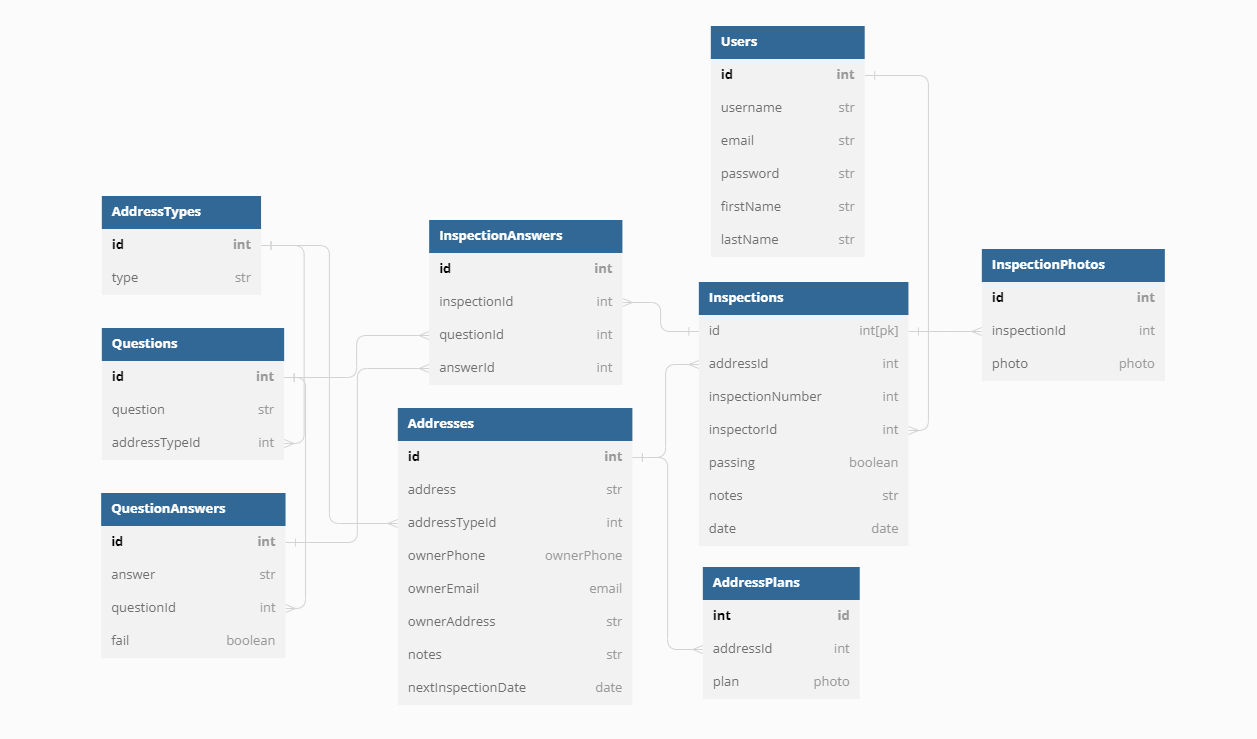
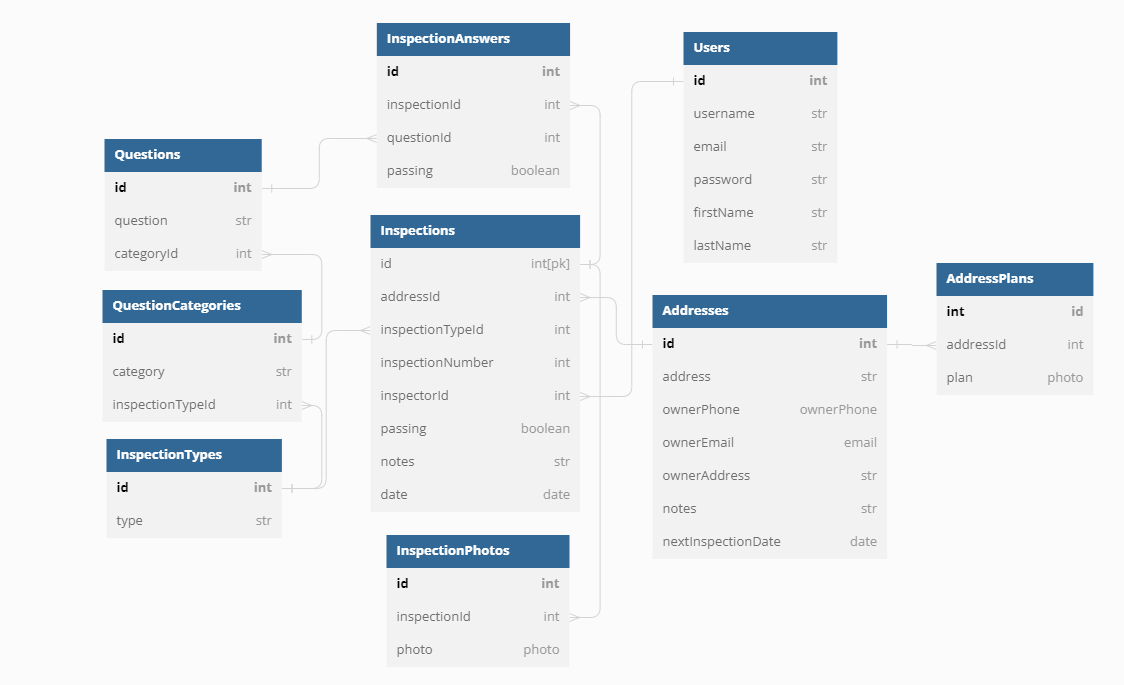
create seeders for inspection types and update models

diff --git a/app/seeds/inspectionTypes.py b/app/seeds/inspectionTypes.py
@@ -1,0 +1,216 @@
+from app.models import db, environment, SCHEMA, InspectionType, Question, QuestionCategory
+
+def seed_inspection_types():
+    # commerial questions
+    egress_question_1 = Question(question='Exit doors unlocked.')
+    egress_question_2 = Question(question='Exit access in unobstructed/clear.')
+    egress_question_3 = Question(question='Exit doors are operable.')
+    egress_question_4 = Question(question='Enclosed exit stairways are clear and free of storage.')
+    egress_question_5 = Question(question='Exit lights are operable.')
+    egress_question_6 = Question(question='No added surface bolts/latches/locks on exit doors.')
+    egress_question_7 = Question(question='Exit doors readily distinguishable as such, with no mirrors or other coverings over doors.')
+
+    systems_question_1 = Question(question='Fire alarm, fire sprinkler and suppression systems are inspected and tested annually')
+    systems_question_2 = Question(question='Sprinkler connection (FDC) is unobstructed and accessible.')
+    systems_question_3 = Question(question='FDC caps in place and FDC couplings freely spin')
+    systems_question_4 = Question(question='Sprinkler heads are unobstructed with no storage with- in 18 inches (36 inches for ESFR and Large Drop fire sprinklers).')
+    systems_question_5 = Question(question='Sprinkler heads are free of paint, corrosion, or other debris.')
+    systems_question_6 = Question(question='Sprinkler valve rooms are accessible and free of storage, and their location identified.')
+    systems_question_7 = Question(question='Fire alarm devices (pull stations, control panels, etc.) are accessible.')
+    systems_question_8 = Question(question='Fire Alarm Control Panel (FACP) accessible and location identified.')
+    systems_question_9 = Question(question='Fire alarm system horns and strobes are not obstructed.')
+    systems_question_10 = Question(question='Kitchen hood suppression system inspected at 6 month intervals.')
+    systems_question_11 = Question(question='Kitchen hood vent system inspected and cleaned at required intervals.')
+    systems_question_12 = Question(question='Kitchen hood suppression system remote pull is accessible.')
+    systems_question_13 = Question(question='Fire extinguishers inspected annually.')
+    systems_question_14 = Question(question='Fire extinguishers are accessible and mounted.')
+    systems_question_15 = Question(question='Travel distance from all portions of the building less than 75’ to a fire extinguisher')
+
+    assemblies_question_1 = Question(question='Fire doors are operable by self-closing and latching')
+    assemblies_question_2 = Question(question='Fire doors are not wedged or propped open.')
+    assemblies_question_3 = Question(question='Roll down fire doors drop tested by outside testing agency each year')
+    assemblies_question_4 = Question(question='Fire rated walls, floor, and ceiling construction not breached.')
+
+    hazmat_question_1 = Question(question='No open containers of flammable or combustible liquids')
+    hazmat_question_2 = Question(question='Material Safety Data Sheets (MSDS) are on site (hard copy or electronic version must be available).')
+    hazmat_question_3 = Question(question='Compressed gas cylinders secured upright.')
+
+    electrical_question_1 = Question(question='Emergency lights tested each year.')
+    electrical_question_2 = Question(question='Emergency generator is fully tested annually.')
+    electrical_question_3 = Question(question='Extension cords not used in place of permanent wiring.')
+    electrical_question_4 = Question(question='Outlet/switch/electrical covers in place')
+    electrical_question_5 = Question(question='Covers for junction boxes, panels, etc. are in place.')
+    electrical_question_6 = Question(question='Electrical rooms are identified as such.')
+
+    housekeeping_question_1 = Question(question='No accumulation of combustible waste.')
+    housekeeping_question_2 = Question(question='Electrical, mechanical, boiler rooms are accessible and free of storage.')
+    housekeeping_question_3 = Question(question='3-foot clearance maintained around electrical panels.')
+    housekeeping_question_4 = Question(question='Electrical equipment and motors free of debris and build-up (i.e. sawdust, lint, etc.).')
+
+    misc_question_1 = Question(question='Street address numbers posted and clearly visible')
+    misc_question_2 = Question(question='No combustible decorative material in exit corridors or assembly occupancies.')
+    misc_question_3 = Question(question='Privately-owned fire hydrants accessible.')
+    misc_question_4 = Question(question='Privately-owned fire hydrants painted per Fire Department regulations')
+    misc_question_5 = Question(question='LPG gas tanks subjected to vehicle traffic protected from damage.')
+    misc_question_6 = Question(question='Access road unobstructed.')
+    misc_question_7 = Question(question='If required, KNOX Box installed, and keys updated.')
+
+    # commerial categories
+    egress_category = QuestionCategory(category='Exits/Means of Egress', questions=[egress_question_1, egress_question_2, egress_question_3, egress_question_4, egress_question_5, egress_question_6, egress_question_7])
+
+    system_category = QuestionCategory(category='Fire Protection Systems', questions=[systems_question_1, systems_question_2, systems_question_3, systems_question_4, systems_question_5, systems_question_6, systems_question_7, systems_question_8, systems_question_9, systems_question_10, systems_question_11, systems_question_12, systems_question_13, systems_question_14, systems_question_15])
+
+    assemblies_category = QuestionCategory(category='Fire Protection Assemblies', questions=[assemblies_question_1, assemblies_question_2, assemblies_question_3, assemblies_question_4])
+
+    hazmat_category = QuestionCategory(category='Hazardous Materials', questions=[hazmat_question_1, hazmat_question_2, hazmat_question_3])
+
+    electrical_category = QuestionCategory(category='Electrical', questions=[electrical_question_1, electrical_question_2, electrical_question_3, electrical_question_4, electrical_question_5, electrical_question_6])
+
+    housekeeping_category = QuestionCategory(category='Housekeeping', questions=[housekeeping_question_1, housekeeping_question_2, housekeeping_question_3, housekeeping_question_4])
+
+    misc_category = QuestionCategory(category='Miscellaneous', questions=[misc_question_1, misc_question_2, misc_question_3, misc_question_4, misc_question_5, misc_question_6, misc_question_7])
+
+    # commerial inspection type
+    commercial = InspectionType(type='commercial', question_categories=[egress_category, system_category, assemblies_category, hazmat_category, electrical_category, housekeeping_category, misc_category])
+
+    # residential inspection questions
+    general_question_1 = Question(question='Home has smoke alarms on every level.')
+    general_question_2 = Question(question='Home has a smoke alarm in every bedroom.')
+    general_question_3 = Question(question='Smoke alarms are located outside each separate sleeping area.')
+    general_question_4 = Question(question='Smoke alarms are located at least 10 feet from a stationary or fixed cooking appliance.')
+    general_question_5 = Question(question='For larger homes (where the interior floor area on a given level is greater than 1,000 square feet), there is an average of at least 1 smoke alarm for every 500 square feet. [See NFPA 72-2007 11.5.1.3, 29.5.1.3 (2010)]')
+    general_question_6 = Question(question='Home has ionization, photoelectric, or combination smoke alarms.')
+    general_question_7 = Question(question='All smoke alarms are working.')
+    general_question_8 = Question(question='Family has a home fire escape plan.')
+    general_question_9 = Question(question='If the home has occupant(s) that require assistance to escape. Occupants discuss escape planning and occupant requirements in case of a fire or emergency escape.')
+    general_question_10 = Question(question='House number is visible from the street.')
+    general_question_11 = Question(question='Windows used for escape open easily — not blocked by furniture, security bars or nailed/painted shut.')
+    general_question_12 = Question(question='Security bars, if present, have a quick release-device.')
+    general_question_13 = Question(question='Home has a carbon monoxide alarm outside each separate sleeping area. ')
+    general_question_14 = Question(question='Home has a carbon monoxide alarm on every level.')
+    general_question_15 = Question(question='Carbon monoxide alarms are working.')
+
+    throughout_question_1 = Question(question='No evidence of smoking in the home.')
+    throughout_question_2 = Question(question='Large ashtrays are provided outside for smokers')
+    throughout_question_3 = Question(question='Matches and lighters are stored in a secure cabinet.')
+    throughout_question_4 = Question(question='Lit candles are not left unattended.')
+    throughout_question_5 = Question(question='Flammable liquids, if stored in the home, are limited in quantify. ')
+    throughout_question_6 = Question(question='The home is not cluttered with clothes, magazines, newspapers and other items that can burn.')
+
+    kitchen_question_1 = Question(question='Things that can burn are removed from the stovetop.')
+    kitchen_question_2 = Question(question='Small appliances are unplugged when not in use.')
+    kitchen_question_3 = Question(question='Adult stays in the kitchen when stovetop is in use.')
+
+    living_question_1 = Question(question='Fireplace has proper screen and hearth.')
+    living_question_2 = Question(question='Things that can burn are at least 3 feet from space heaters and fireplaces.')
+
+    bedroom_question_1 = Question(question='All bedrooms have two ways out — window and a door.')
+
+    basement_question_1 = Question(question='Workshop area is clean of things that can burn')
+    basement_question_2 = Question(question='Hot water heater is set at no higher than 120° Fahrenheit.')
+    basement_question_3 = Question(question='Things that can burn are at least 3 feet from the furnace.')
+    basement_question_4 = Question(question='Furnace is inspected and cleaned annually.')
+    basement_question_5 = Question(question='Chimney is inspected annually and cleaned as needed.')
+    basement_question_6 = Question(question='Clothes dryer lint filter and vent pipe are clean')
+
+    garage_question_1 = Question(question='There is a solid door between garage and residence.')
+    garage_question_2 = Question(question='Gas powered equipment is stored in an outside shed or garage, separate from the home.')
+    garage_question_3 = Question(question='Gasoline is stored in an approved safety container in an outside shed or garage, separate from the home.')
+
+    outside_question_1 = Question(question='Outside electrical receptacles are GFCI and they are in good working condition.')
+    outside_question_2 = Question(question='There is no rubbish, trash, brush or tree trimmings accumulation on the property. ')
+    outside_question_3 = Question(question='Barbecue grill is only used outdoors.')
+    outside_question_4 = Question(question='Swimming pool or hot tub is enclosed by a four-sided fence and locked gate. Filter, heater or hot tub is properly grounded.')
+
+    residential_electrical_question_1 = Question(question='AFCIs (arc-fault circuit interrupters) are installed throughout the home and they are working properly (new home construction only).')
+    residential_electrical_question_2 = Question(question='Kitchen and bathrooms have GFCI outlets on countertop surfaces within 6 feet of running water outlets and they are working properly.')
+    residential_electrical_question_3 = Question(question='All receptacle and switch faceplates are installed and in good condition.')
+    residential_electrical_question_4 = Question(question='Receptacles have been tested and are in good working condition — no evidence of arcing or overheating.')
+    residential_electrical_question_5 = Question(question='Switches are in good condition — no evidence of arcing or overheating.')
+    residential_electrical_question_6 = Question(question='Lighting fixture canopies are fastened in place and fixture is in good condition')
+    residential_electrical_question_7 = Question(question='Bulbs in light fixtures are the correct wattage for the lighting fixture.')
+    residential_electrical_question_8 = Question(question='Flexible cords and cables are not used as fixed wiring, run through holes in walls, ceiling or floor, run through doorways or windows or under carpets or attached to building surfaces.')
+    residential_electrical_question_9 = Question(question='If there are young children in the home, the home has tamper-resistant outlets.')
+    residential_electrical_question_10 = Question(question='Panel board and distribution equipment is accessible for inspection and in good condition — no evidence of overheating, corrosion or other damage.')
+    residential_electrical_question_11 = Question(question='Service entrance raceways or cables are fastened in place, grounded, readily accessible and in good condition.')
+
+    stair_question_1 = Question(question='Stair is provided with a handrail(s).')
+    stair_question_2 = Question(question='Stair can be illuminated for night time use.')
+    stair_question_3 = Question(question='Stair tread depth and riser height are uniform.')
+    stair_question_4 = Question(question='Stair landing nosing projections are consistent with other nosings on the stair flight. (You can determine this by doing a “crouch and sight” test. Crouch down at the top landing of the stair. All the nosings from the landing to the bottom step should line up.)')
+
+    # residential question categories
+    general_category = QuestionCategory(category='General', questions=[general_question_1, general_question_2, general_question_3, general_question_4, general_question_5, general_question_6, general_question_7, general_question_8, general_question_9, general_question_10, general_question_11, general_question_12, general_question_13, general_question_14, general_question_15])
+
+    throughout_category = QuestionCategory(category='Throughout the Home', questions=[throughout_question_1, throughout_question_2, throughout_question_3, throughout_question_4, throughout_question_5, throughout_question_6])
+
+    kitchen_category = QuestionCategory(category='Kitchen', questions=[kitchen_question_1, kitchen_question_2, kitchen_question_3])
+
+    living_category = QuestionCategory(category='Living/Family Room', questions=[living_question_1, living_question_2])
+
+    bedroom_category = QuestionCategory(category='Bedrooms', questions=[bedroom_question_1])
+
+    basement_category = QuestionCategory(category='Basement', questions=[basement_question_1, basement_question_2, basement_question_3, basement_question_4, basement_question_5, basement_question_6])
+
+    garage_category = QuestionCategory(category='Garage', questions=[garage_question_1, garage_question_2, garage_question_3])
+
+    outside_category = QuestionCategory(category='Outside the Home', questions=[outside_question_1, outside_question_2, outside_question_3, outside_question_4])
+
+    residential_electrical_category = QuestionCategory(category='Electrical', questions=[residential_electrical_question_1, residential_electrical_question_2, residential_electrical_question_3, residential_electrical_question_4, residential_electrical_question_5, residential_electrical_question_6, residential_electrical_question_7, residential_electrical_question_8, residential_electrical_question_9, residential_electrical_question_10, residential_electrical_question_11])
+
+    stair_category = QuestionCategory(category='Stair Safety', questions=[stair_question_1, stair_question_2, stair_question_3, stair_question_4])
+
+    # residential inspection type
+    residential = InspectionType(type='residential', question_categories=[general_category, throughout_category, kitchen_category, living_category, bedroom_category, basement_category, garage_category, outside_category, residential_electrical_category, stair_category])
+
+    # brush inspection questions
+    defensible_question_1 = Question(question='No branches within 10 feet of any stovepipe or chimney outlet.')
+    defensible_question_2 = Question(question='No leaves, needles or other vegetation on roofs, gutters, decks, porches and stairways etc.')
+    defensible_question_3 = Question(question='No dead or dying trees, branches, shrubs or other plants adjacent to or overhanging buildings.')
+    defensible_question_4 = Question(question='Lower branches of trees trimmed to a height of 6 to 15 feet (or 1/3 tree height for trees under 18 feet).')
+    defensible_question_5 = Question(question='No dead or dying grass, leaves, needles or other vegetation.')
+    defensible_question_6 = Question(question='No live flammable ground cover and shrubs.')
+
+    reduced_fuel_question_1 = Question(question='Dead or dying grass trimmed to a maximum of 4 inches in height. (Trimmings may remain on the ground)')
+    reduced_fuel_question_2 = Question(question='Live flammable ground cover trimmed to less than 18 inches in height.')
+    reduced_fuel_question_3 = Question(question='Lower branches of trees trimmed to a height of 6 to 15 feet from the top of the vegetation below. (1/3 of the tree height for trees under 30 feet)')
+    reduced_fuel_question_4 = Question(question='All ground fuels trimmed to less than four inches in height. Single trees or other vegetation may be kept if they are well spaced, well pruned, well maintained, free of all dead material, and will not spread fire to other vegetation or structures.')
+    reduced_fuel_question_5 = Question(question='All grass is less than four inches in height. If fuels are isolated from other fuels or where necessary to stabilize soil, grasses may reach a height of 18 inches.')
+    reduced_fuel_question_6 = Question(question='Proper clearance between shrubs/trees according to the slope of the land and type of vegetation. 0-20 percent slope = 2 times the height of the plant or 10 feet for trees. 20-40 percent slope = 4 times the height of the plant or 20 feet for trees. More than 40 percent slope = 6 times the height of the plant or 30 feet for trees.')
+
+    defensible_reduced_question_1 = Question(question='Logs or stumps embedded in the soil are removed or isolated from structures and other vegetation.')
+    defensible_reduced_question_2 = Question(question='No dead or dying brush and trees.')
+    defensible_reduced_question_3 = Question(question='No dead or dying tree branches within 15 feet of the ground.')
+
+    other_reqs_question_1 = Question(question='No flammable vegetation, trash, and other combustible materials 10 feet around and above propane tanks.')
+    other_reqs_question_2 = Question(question='Address numbers properly displayed in contrasting colors (4” Min. Size) and readable from the street or access road.')
+    other_reqs_question_3 = Question(question='Chimney or stovepipe openings properly equipped with a metal screen having openings between 3/8 inch and 1/2 inch.')
+    other_reqs_question_4 = Question(question='Clearance of 10 feet around and 15 feet above fuels (e.g. Woodpiles, lumber, scrap etc.). Woodpiles moved as far as possible from structures.')
+    other_reqs_question_5 = Question(question='Flammable materials not stored under decks and similar overhangs of structures.')
+    other_reqs_question_6 = Question(question='Vegetation cleared 10 feet from sides and 15 feet above all driveways and turnaround areas.')
+
+    # brush inspection categories
+    defensible_space_category = QuestionCategory(category='Defensible Space Zone (within 30 feet of all structures or to property line)', questions=[defensible_question_1, defensible_question_2, defensible_question_3, defensible_question_4, defensible_question_5, defensible_question_6])
+
+    reduced_fuel_category = QuestionCategory(category='Reduced Fuel Zone (within 30 - 100 feet of all structures or to property line)', questions=[reduced_fuel_question_1, reduced_fuel_question_2, reduced_fuel_question_3, reduced_fuel_question_4, reduced_fuel_question_5, reduced_fuel_question_6])
+
+    defensible_reduced_category = QuestionCategory(category='Defensible and Reduced Fuel Zone (within 100 feet of all structures or to property line)', questions=[defensible_reduced_question_1, defensible_reduced_question_2, defensible_reduced_question_3])
+
+    other_requirements_category = QuestionCategory(category='Other Requirements', questions=[other_reqs_question_1, other_reqs_question_2, other_reqs_question_3, other_reqs_question_4, other_reqs_question_5, other_reqs_question_6])
+
+
+    # brush inspection type
+    brush = InspectionType(type='brush', question_categories=[defensible_space_category, reduced_fuel_category, defensible_reduced_category, other_requirements_category])
+
+    db.session.add(commercial)
+    db.session.add(residential)
+    db.session.add(brush)
+    db.session.commit()
+
+def undo_inspection_types():
+    if environment == "production":
+        db.session.execute(f"TRUNCATE table {SCHEMA}.inspection_types RESTART IDENTITY CASCADE;")
+    else:
+        db.session.execute("DELETE FROM inspection_types")
+
+    db.session.commit()

diff --git a/app/models/user.py b/app/models/user.py
@@ -36,60 +36,4 @@ class User(db.Model, UserMixin):
             'lastName': self.lastName
         }
 
-class AddressType(db.Model):
-    __tablename__ = 'address_types'
 
-    if environment == "production":
-            __table_args__ = {'schema': SCHEMA}
-
-    id = db.Column(db.Integer, primary_key=True)
-    type = db.Column(db.String(40), nullable=False, unique=True)
-
-    questions = db.relationship('Questions', back_populates='address_type', cascade='all, delete-orphan')
-
-    def to_dict(self):
-        return {
-            'id': self.id,
-            'type': self.type,
-            'questions': [question.to_dict() for question in self.questions]
-        }
-
-class Question(db.Model):
-    __tablename__ = 'questions'
-
-    if environment == "production":
-            __table_args__ = {'schema': SCHEMA}
-
-    id = db.Column(db.Integer, primary_key=True)
-    question = db.Column(db.Text, nullable=False, unique=True)
-    address_type_id = db.Column(db.Integer, db.ForeignKey(add_prefix_for_prod('address_types.id')), nullable=False)
-
-    address_type = db.relationship('AddressType', back_populates='questions')
-    answers = db.relationship('QuestionAnswer', back_populates='question', cascade='all, delete-orphan')
-
-    def to_dict(self):
-        return {
-            'id': self.id,
-            'question': self.question,
-            'answers': [answer.to_dict() for answer in self.answers]
-        }
-
-class QuestionAnswer(db.Model):
-    __tablename__ = 'question_answers'
-
-    if environment == "production":
-            __table_args__ = {'schema': SCHEMA}
-
-    id = db.Column(db.Integer, primary_key=True)
-    answer = db.Column(db.String(255), nullable=False)
-    fail = db.Column(db.Boolean, default=False)
-    question_id = db.Column(db.Integer, db.ForeignKey(add_prefix_for_prod('questions.id')), nullable=False)
-
-    question = db.relationship('Question', back_populates='answers')
-
-    def to_dict(self):
-        return {
-            'id': self.id,
-            'answer': self.answer,
-            'fail': self.fail,
-        }

diff --git a/app/models/inspectionTypes.py b/app/models/inspectionTypes.py
@@ -1,0 +1,57 @@
+from .db import db, environment, SCHEMA, add_prefix_for_prod
+
+class InspectionType(db.Model):
+    __tablename__ = 'inspection_types'
+
+    if environment == "production":
+            __table_args__ = {'schema': SCHEMA}
+
+    id = db.Column(db.Integer, primary_key=True)
+    type = db.Column(db.String(40), nullable=False, unique=True)
+
+    question_categories = db.relationship('QuestionCategory', back_populates='inspection_type', cascade='all, delete-orphan')
+
+    def to_dict(self):
+        return {
+            'id': self.id,
+            'type': self.type,
+            'question_categories': [category.to_dict() for category in self.question_categories]
+        }
+
+class QuestionCategory(db.Model):
+    __tablename__ = 'question_categories'
+
+    if environment == "production":
+            __table_args__ = {'schema': SCHEMA}
+
+    id = db.Column(db.Integer, primary_key=True)
+    category = db.Column(db.String(255), nullable=False)
+    inspection_type_id = db.Column(db.Integer, db.ForeignKey(add_prefix_for_prod('inspection_types.id')), nullable=False)
+
+    inspection_type = db.relationship('InspectionType', back_populates='categories')
+    questions = db.relationship('Questions', back_populates='question_category')
+
+    def to_dict(self):
+        return {
+            'id': self.id,
+            'category': self.category,
+            'questions': [question.to_dict() for question in self.questions]
+        }
+
+class Question(db.Model):
+    __tablename__ = 'questions'
+
+    if environment == "production":
+            __table_args__ = {'schema': SCHEMA}
+
+    id = db.Column(db.Integer, primary_key=True)
+    question = db.Column(db.Text, nullable=False, unique=True)
+    question_category_id = db.Column(db.Integer, db.ForeignKey(add_prefix_for_prod('question_categories.id')), nullable=False)
+
+    question_category = db.relationship('QuestionCategory', back_populates='questions')
+
+    def to_dict(self):
+        return {
+            'id': self.id,
+            'question': self.question,
+        }

diff --git a/app/models/__init__.py b/app/models/__init__.py
@@ -1,3 +1,4 @@
 from .db import db
 from .user import User
 from .db import environment, SCHEMA
+from .inspectionTypes import InspectionType, Question, QuestionCategory
